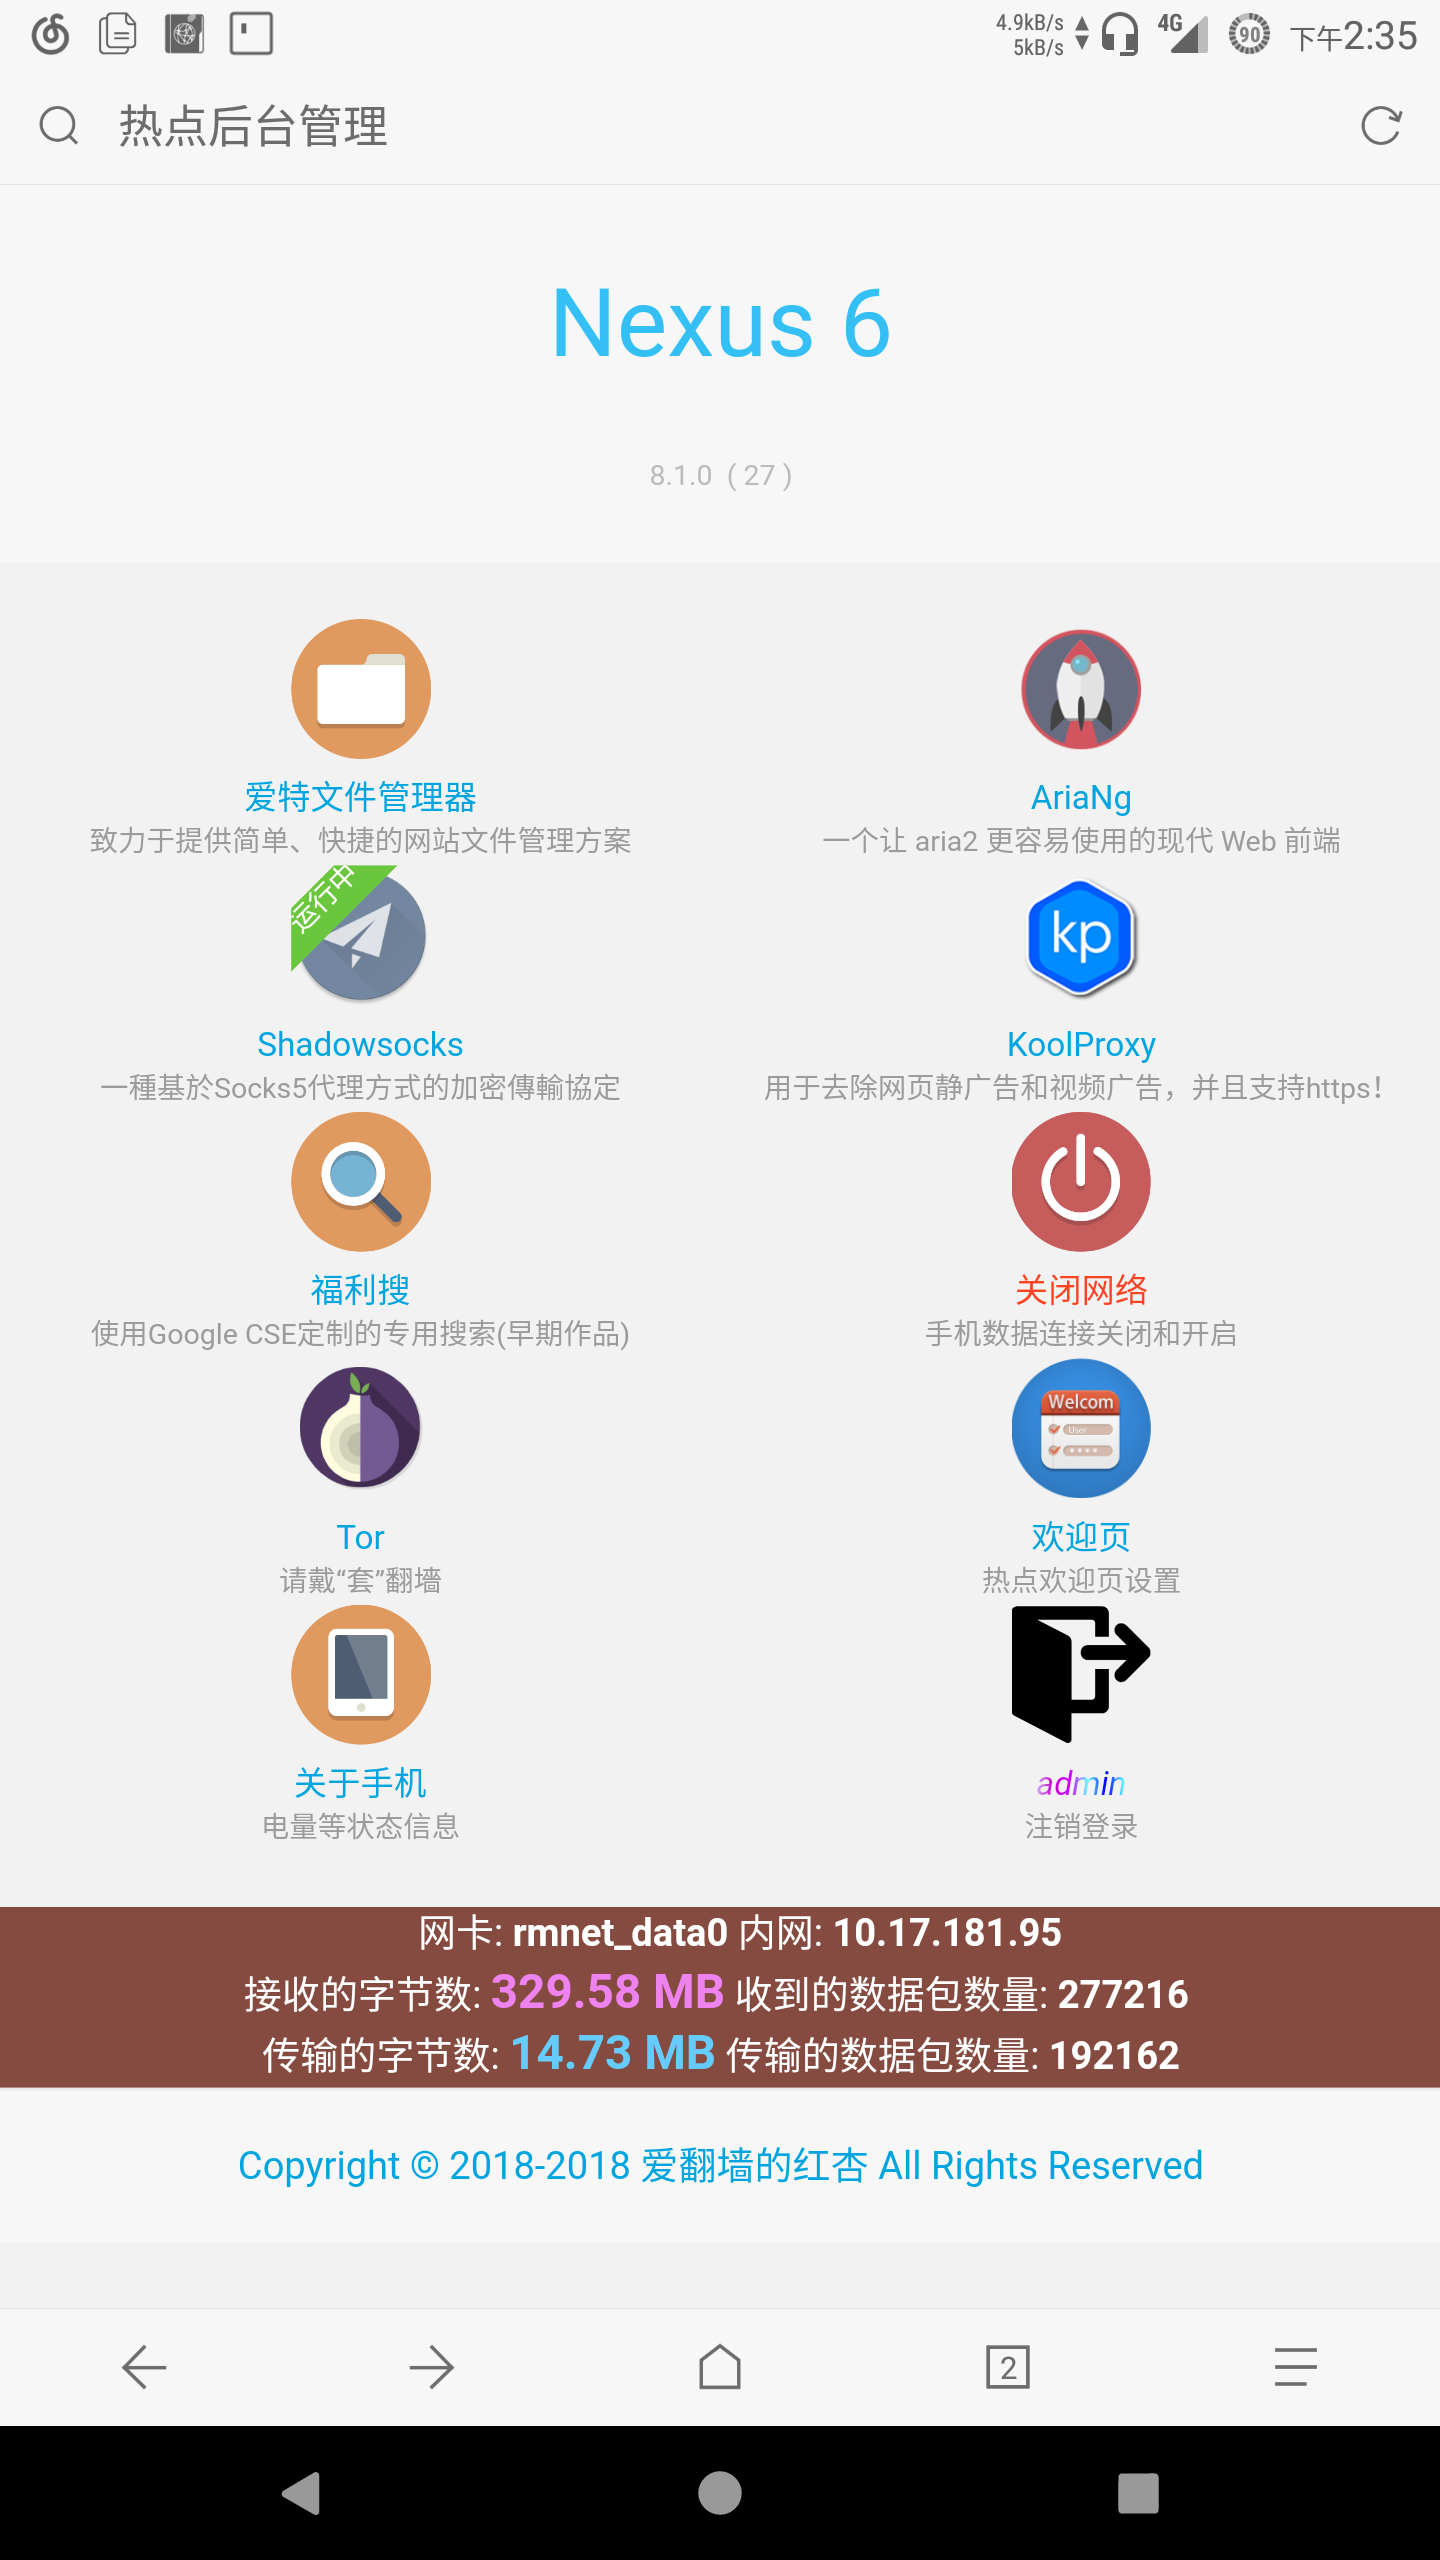
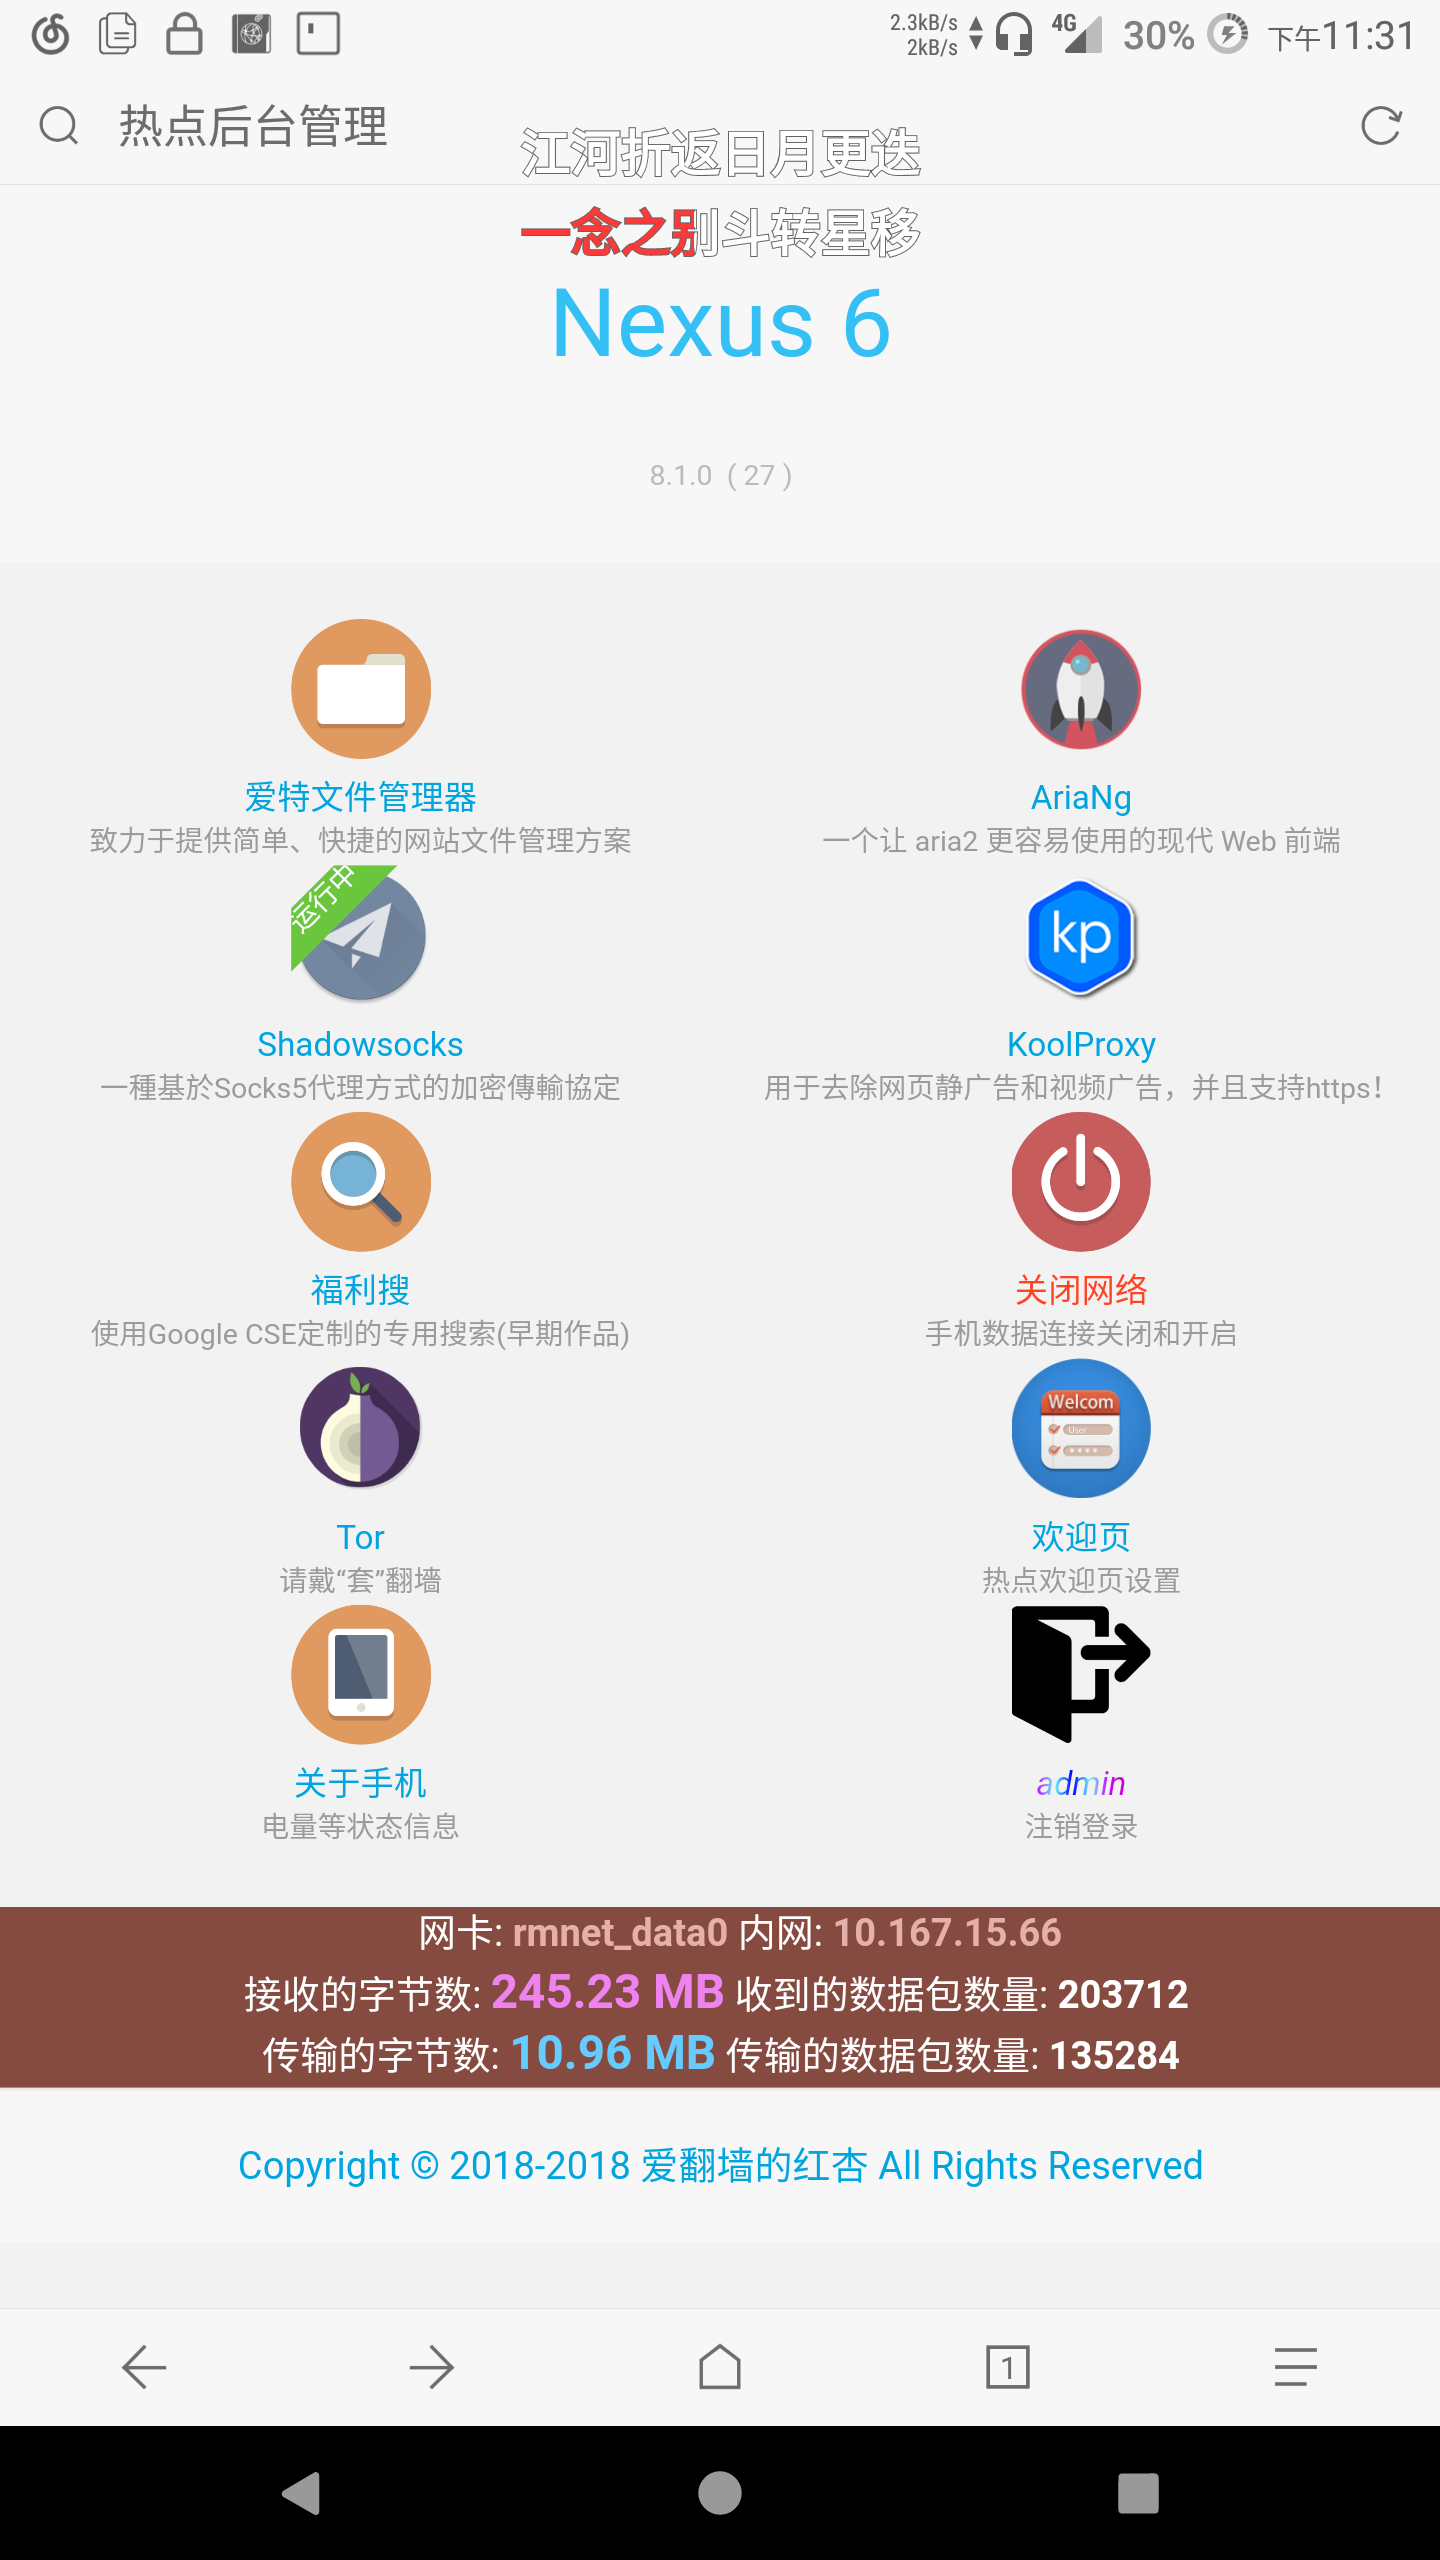
修复成吨bug

diff --git a/Admin/traffic.php b/Admin/traffic.php
@@ -40,7 +40,7 @@ if (!isset($_SESSION['interface_name'])) {
     $_SESSION['ip_address'] = $ip_address;
 }
 list($Receive_bytes, $Receive_packets, $Transmit_bytes, $Transmit_packets) = network_traffic($_SESSION['interface_name']);
-echo "网卡: <b>" . $_SESSION['interface_name'] . "</b> 内网: <b>" . $_SESSION['ip_address'] . "</b><br>接收的字节数: <b style=\"font-size: 20px;color:#ee82ee;\">" . round($Receive_bytes / 1024 / 1024, 2) . " MB</b> 收到的数据包数量: <b>$Receive_packets </b><br>传输的字节数: <b style=\"font-size: 20px;color:#66ccff;\">" . round($Transmit_bytes / 1024 / 1024, 2) . " MB</b> 传输的数据包数量: <b>$Transmit_packets</b>";
+echo "网卡: <b style=\"color:#e6b0aa;\">" . $_SESSION['interface_name'] . "</b> 内网: <b style=\"color:#e6b0aa;\">" . $_SESSION['ip_address'] . "</b><br>接收的字节数: <b style=\"font-size: 20px;color:#ee82ee;\">" . round($Receive_bytes / 1024 / 1024, 2) . " MB</b> 收到的数据包数量: <b>$Receive_packets </b><br>传输的字节数: <b style=\"font-size: 20px;color:#66ccff;\">" . round($Transmit_bytes / 1024 / 1024, 2) . " MB</b> 传输的数据包数量: <b>$Transmit_packets</b>";
 flush();
 die;
 ?>
